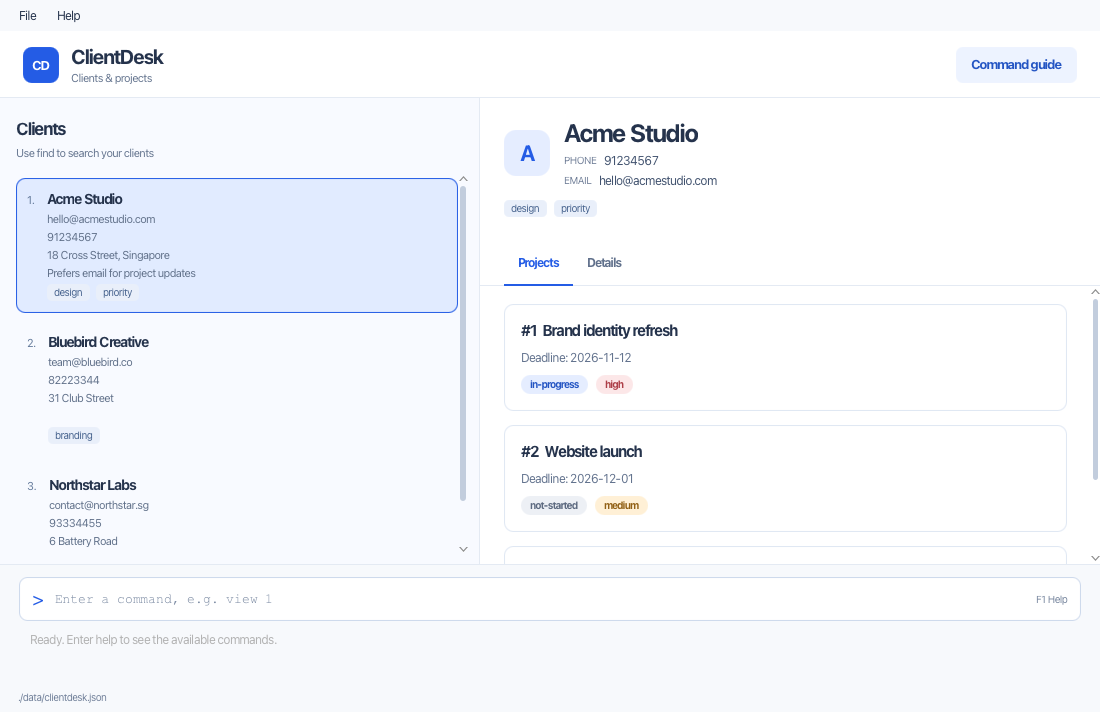
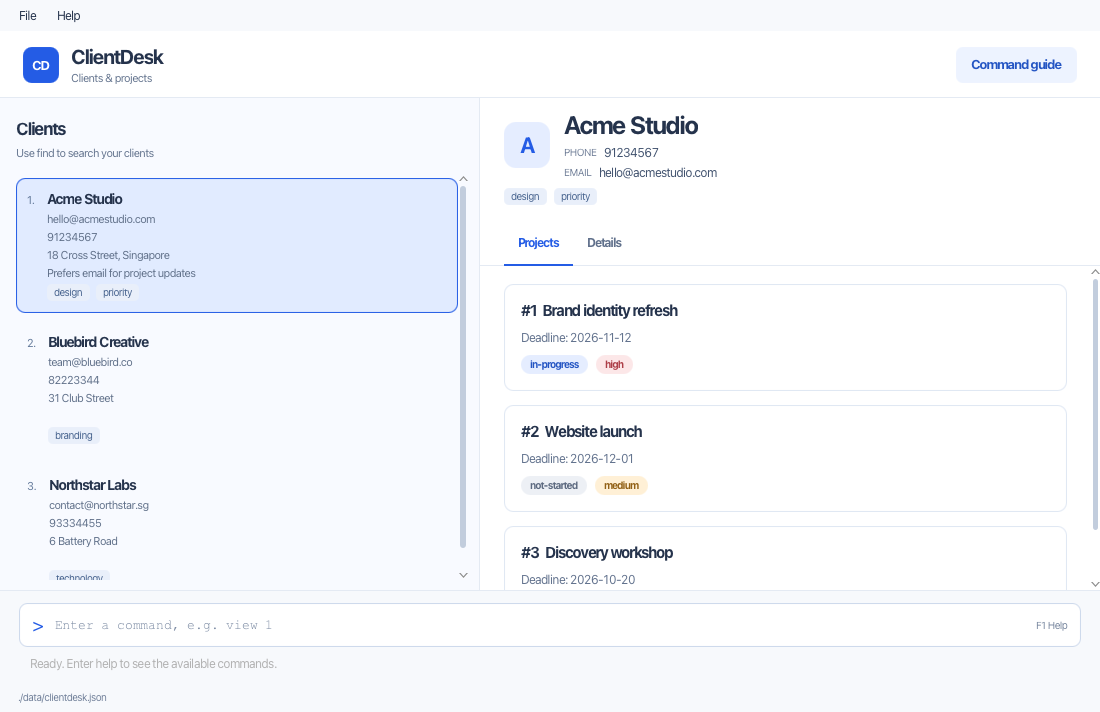
Keep the workspace usable on short screens

diff --git a/src/main/resources/view/ClientDesk.css b/src/main/resources/view/ClientDesk.css
@@ -163,8 +163,8 @@
 }
 
 .client-header {
-    -fx-padding: 20 24 16 24;
-    -fx-spacing: 12;
+    -fx-padding: 12 24 8 24;
+    -fx-spacing: 8;
 }
 
 .client-avatar {

diff --git a/src/test/java/seedu/address/ui/ClientWorkspaceUiTest.java b/src/test/java/seedu/address/ui/ClientWorkspaceUiTest.java
@@ -280,6 +280,77 @@ public class ClientWorkspaceUiTest {
         });
     }
 
+    @Test
+    public void workspace_compactWindowKeepsControlsAndBothTabsInsideScene() throws Exception {
+        ModelManager model = new ModelManager();
+        Person client = new PersonBuilder().withName("Compact View Client").withPhone("81111111")
+                .withEmail("compact@example.com").withTags("vip", "design")
+                .withProjects(List.of(project(1, "Compact project", "2026-12-01",
+                        ProjectStatus.IN_PROGRESS, ProjectPriority.HIGH)), 2).build();
+        model.addPerson(client);
+        JsonAddressBookStorage storage = new JsonAddressBookStorage(testFolder.resolve("compact-client.json"));
+        LogicManager logic = new LogicManager(model, new StorageManager(storage,
+                new JsonUserPrefsStorage(testFolder.resolve("compact-client-preferences.json"))));
+        MainWindow[] windowRef = new MainWindow[1];
+
+        JavaFxTestUtil.runOnFxThread(() -> {
+            MainWindow window = new MainWindow(new Stage(), logic, storage.getAddressBookFilePath());
+            windowRef[0] = window;
+            window.show();
+            window.fillInnerParts();
+            window.getPersonListPanel().selectClient(client);
+            window.getPrimaryStage().setMinHeight(400);
+            window.getPrimaryStage().setWidth(853);
+            window.getPrimaryStage().setHeight(400);
+        });
+        Thread.sleep(150);
+
+        JavaFxTestUtil.runOnFxThread(() -> {
+            MainWindow window = windowRef[0];
+            try {
+                Scene scene = window.getPrimaryStage().getScene();
+                scene.getRoot().applyCss();
+                scene.getRoot().layout();
+                assertTrue(window.getPrimaryStage().getWidth() >= 853);
+                assertTrue(window.getPrimaryStage().getWidth() <= 900);
+                assertTrue(window.getPrimaryStage().getHeight() >= 400);
+                assertTrue(window.getPrimaryStage().getHeight() <= 450);
+
+                TabPane tabs = lookup(window, "#clientTabs", TabPane.class);
+                TextField input = lookup(window, "#commandTextField", TextField.class);
+                TextArea feedback = lookup(window, "#resultDisplay", TextArea.class);
+                Node commandPlaceholder = lookup(window, "#commandBoxPlaceholder", Node.class);
+                Node footer = lookup(window, "#statusbarPlaceholder", Node.class);
+                Node footerContent = scene.lookup(".status-bar");
+                ScrollPane projects = lookup(window, ".project-scroll", ScrollPane.class);
+                assertVisibleWithinScene(tabs, scene);
+                assertVisibleWithinScene(input, scene);
+                assertVisibleWithinScene(feedback, scene);
+                assertVisibleWithinScene(footer, scene);
+                assertVisibleWithinScene(footerContent, scene);
+                Node projectViewport = projects.lookup(".viewport");
+                assertTrue(projectViewport.isVisible());
+                assertTrue(tabs.getHeight() >= 80, "both workspace tabs need a usable viewport");
+                assertTrue(projectViewport.localToScene(projectViewport.getBoundsInLocal()).getHeight() >= 32,
+                        "the Projects tab needs a visible card viewport");
+                Bounds tabsBounds = tabs.localToScene(tabs.getBoundsInLocal());
+                Bounds commandBounds = commandPlaceholder.localToScene(commandPlaceholder.getBoundsInLocal());
+                assertTrue(tabsBounds.getMaxY() <= commandBounds.getMinY(),
+                        "the workspace must end above the command dock");
+
+                Tab detailsTab = tabs.getTabs().stream().filter(tab -> "Details".equals(tab.getText()))
+                        .findFirst().orElseThrow();
+                tabs.getSelectionModel().select(detailsTab);
+                TextArea details = lookup(window, "#clientDetails", TextArea.class);
+                assertVisibleWithinScene(details, scene);
+                assertTrue(details.getText().contains("Name: Compact View Client"));
+                assertTrue(details.getText().contains("Projects:\n#1 | Compact project"));
+            } finally {
+                List.copyOf(Window.getWindows()).forEach(Window::hide);
+            }
+        });
+    }
+
     private Project project(int id, String title, String deadline, ProjectStatus status, ProjectPriority priority) {
         return new Project(id, new ProjectTitle(title), new ProjectDeadline(deadline), status, priority);
     }

diff --git a/src/main/java/seedu/address/ui/MainWindow.java b/src/main/java/seedu/address/ui/MainWindow.java
@@ -9,6 +9,7 @@ import javafx.scene.control.MenuItem;
 import javafx.scene.control.TextInputControl;
 import javafx.scene.input.KeyCombination;
 import javafx.scene.input.KeyEvent;
+import javafx.scene.layout.HBox;
 import javafx.scene.layout.StackPane;
 import javafx.stage.Stage;
 import seedu.address.commons.core.GuiSettings;
@@ -38,6 +39,9 @@ public class MainWindow extends UiPart<Stage> {
     private ResultDisplay resultDisplay;
     private ClientDetailsPanel clientDetailsPanel;
     private HelpWindow helpWindow;
+
+    @FXML
+    private HBox workspaceHeader;
 
     @FXML
     private StackPane commandBoxPlaceholder;
@@ -70,6 +74,9 @@ public class MainWindow extends UiPart<Stage> {
         this.dataFilePath = dataFilePath;
 
         // Configure the UI
+        // Keep client tabs available when the window is fitted to a short screen.
+        workspaceHeader.managedProperty().bind(primaryStage.heightProperty().greaterThanOrEqualTo(550));
+        workspaceHeader.visibleProperty().bind(workspaceHeader.managedProperty());
         setWindowDefaultSize(logic.getGuiSettings());
 
         setAccelerators();

diff --git a/docs/DeveloperGuide.md b/docs/DeveloperGuide.md
@@ -81,7 +81,8 @@ for the implemented client and project workflows. The current workspace uses a l
 client's workspace. The workspace header shows
 the client's name and contact summary, with **Projects** and **Details** tabs. Project cards display each project's
 title, deadline, status and priority. The bottom command bar remains available for keyboard-based workflows, and Help
-is available from the menu and by pressing `F1`.
+is available from the menu and by pressing `F1`. On short screens the brand header collapses to keep the tabs
+and command bar visible; Help remains available through the menu, `F1` and the `help` command.
 
 ![ClientDesk workspace showing the client list and selected client's projects](images/Ui.png)
 
